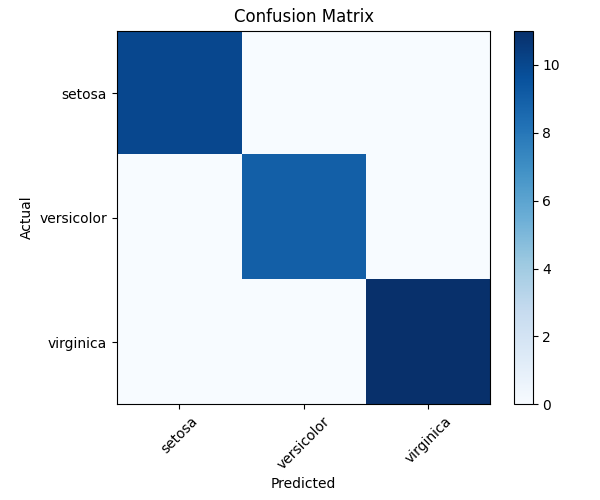
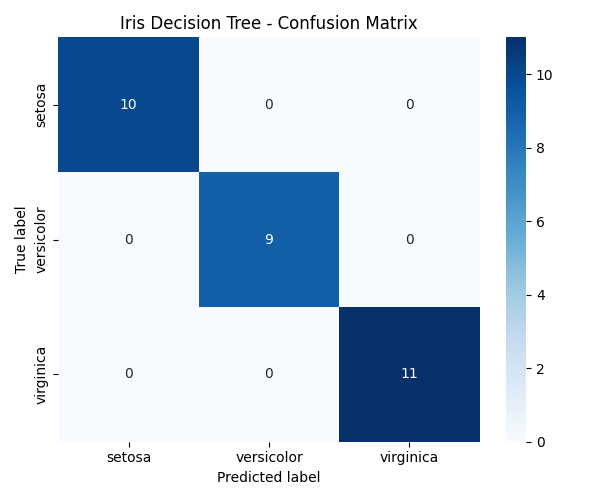
updated confusion matrix

diff --git a/src/train.py b/src/train.py
@@ -1,6 +1,7 @@
 import argparse
 import os
 import joblib
+import seaborn as sns
 
 from sklearn.datasets import load_iris
 from sklearn.model_selection import train_test_split
@@ -26,7 +27,12 @@ def train_model(test_size, random_state):
     model = DecisionTreeClassifier(random_state=random_state)
     model.fit(X_train, y_train)
 
+    # Ensure outputs folder exists
+    os.makedirs("outputs", exist_ok=True)
+
+    # Save trained model
     joblib.dump(model, "outputs/iris_model.pkl")
+    print("Saved: outputs/iris_model.pkl")
 
     # Predict
     y_pred = model.predict(X_test)
@@ -37,24 +43,25 @@ def train_model(test_size, random_state):
 
     # Confusion matrix
     cm = confusion_matrix(y_test, y_pred)
-    cm_df = pd.DataFrame(cm, index=iris.target_names, columns=iris.target_names)
 
     print("\nConfusion Matrix:")
-    print(cm_df)
+    print(cm)
 
-    # Save plot
-    os.makedirs("outputs", exist_ok=True)
-
+    # Create heatmap
     plt.figure(figsize=(6, 5))
-    plt.imshow(cm, cmap="Blues")
-    plt.title("Confusion Matrix")
-    plt.colorbar()
 
-    plt.xticks(range(len(iris.target_names)), iris.target_names, rotation=45)
-    plt.yticks(range(len(iris.target_names)), iris.target_names)
+    sns.heatmap(
+        cm,
+        annot=True,
+        fmt="d",
+        cmap="Blues",
+        xticklabels=iris.target_names,
+        yticklabels=iris.target_names
+    )
 
-    plt.xlabel("Predicted")
-    plt.ylabel("Actual")
+    plt.xlabel("Predicted label")
+    plt.ylabel("True label")
+    plt.title("Iris Decision Tree - Confusion Matrix")
 
     plt.tight_layout()
     plt.savefig("outputs/confusion_matrix.png")